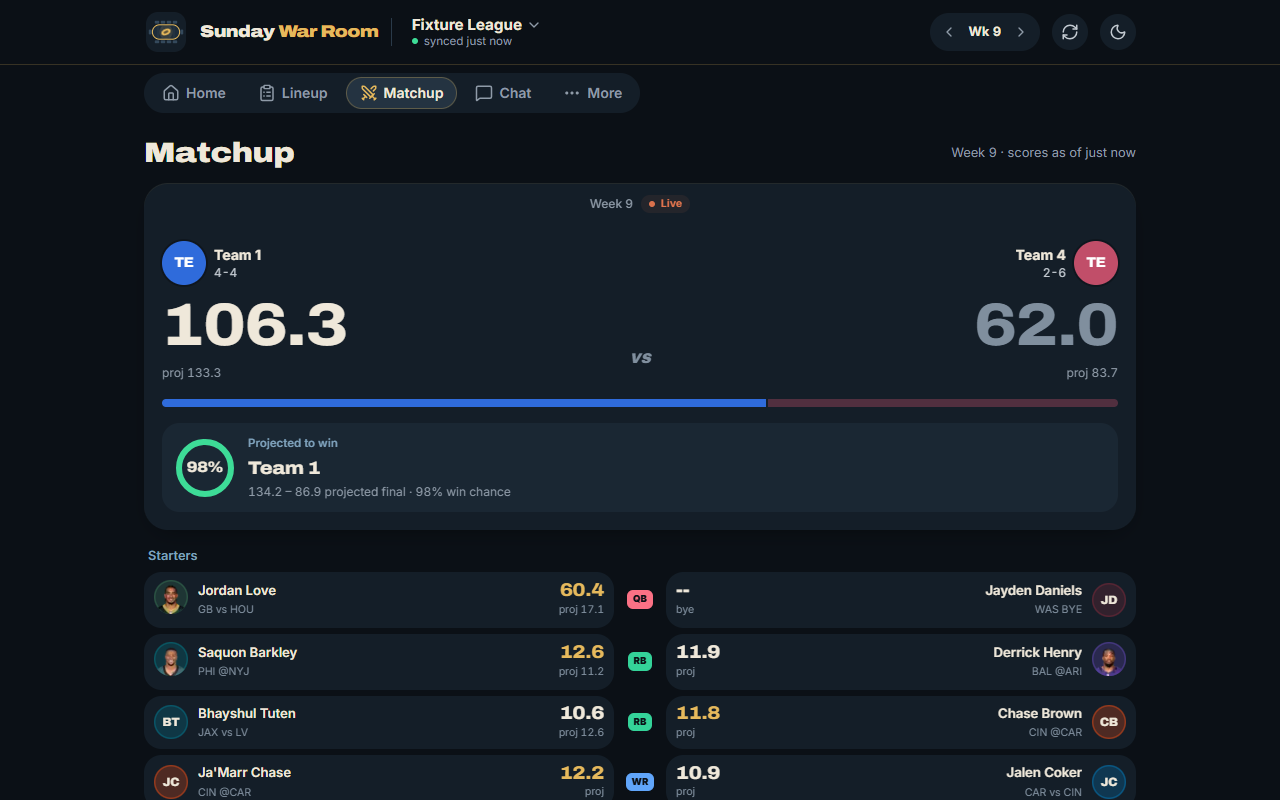
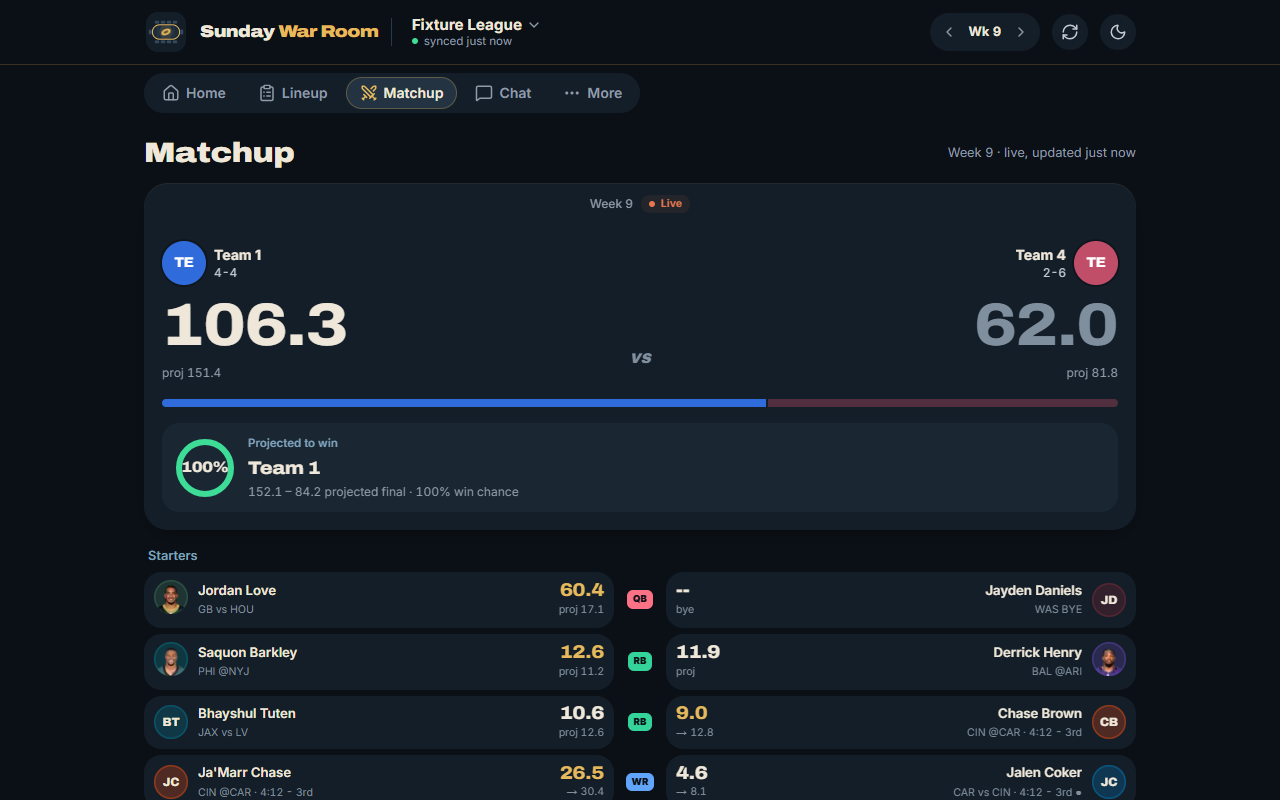
P2 step 8: docs, checklist, screenshots; fix the worker-jobs test for the live cron
P2 is built: waivers, trade analyzer, live game day. 260 backend (99% coverage),
73 web and 81 end-to-end tests.

diff --git a/web/scripts/screenshots.ts b/web/scripts/screenshots.ts
@@ -22,10 +22,12 @@ const screens = [
   ["matchup", "/matchup"],
   ["lineup", "/lineup"],
   ["accuracy", "/accuracy"],
+  ["waivers", "/waivers"],
+  ["trades", "/trades"],
 ] as const;
 
 for (const [kind, device] of [
-  ["phone", devices["iPhone 14"]],
+  ["phone", { ...devices["iPhone 14"], deviceScaleFactor: 2 }],
   ["desktop", { ...devices["Desktop Chrome"], viewport: { width: 1280, height: 800 } }],
 ] as const) {
   const context = await browser.newContext({ ...device, baseURL, colorScheme: "dark" });

diff --git a/api/tests/integration/test_gap_fillers_integration.py b/api/tests/integration/test_gap_fillers_integration.py
@@ -59,12 +59,14 @@ def test_worker_registers_every_job_and_its_schedule() -> None:
 
     assert {f.__name__ for f in WorkerSettings.functions} == {  # type: ignore[attr-defined]
         "connect_sleeper",
+        "live_update_job",
         "sync_league_job",
         "sync_players_job",
         "ingest_nflverse_job",
     }
     assert {c.name for c in WorkerSettings.cron_jobs} == {
         "cron:sync_all_leagues",
+        "cron:live_update_job",  # P2: every minute, quiet outside game windows
         "cron:sync_players_job",
         "cron:ingest_nflverse_job",
     }

diff --git a/docs/Build-Plan/P2-Build-Plan.md b/docs/Build-Plan/P2-Build-Plan.md
@@ -17,16 +17,16 @@ Each step ends runnable, tested, committed and green in CI.
 5. **Trade analyzer** (done 2026-11-10): `POST /leagues/{id}/trades/evaluate` (any two teams); `GET /leagues/{id}/trades/suggestions?max_loss=`; Trades screen with team pickers, before/after lineups and the "acceptable" slider.
 6. **ESPN scoreboard source** (done 2026-11-10; `app/sources/espn_scoreboard.py`, recorded real weeks 9-10 plus a derived live file): one module with a schema contract; team codes mapped to ours.
 7. **Live game day** (done 2026-11-10; every-minute worker tick that does nothing outside game windows; Matchup polls every 45 s while live; kickoff-time estimate when the scoreboard is down): a worker job polls Sleeper and the scoreboard during game windows; live win chance from the remaining share of each game; player status on Matchup and Home; screens re-fetch every 30–60 s only while games are live; points-only fallback when the scoreboard fails.
-8. **Tests and docs:** end-to-end stand-ins (Sleeper and a scoreboard replaying a recorded Sunday), specs for waivers, trades and live; OpenAPI and generated client; vault, Verification Gaps, backlog.
+8. **Tests and docs** (done 2026-11-10): specs for waivers, trades and live; OpenAPI and generated client; vault, Verification Gaps, backlog. Changed from the plan: the end-to-end world stores the scoreboard rows the live tick would write, instead of a stand-in server replaying a Sunday (the worker's cron is off in that stack); the tick itself is tested against a fake scoreboard in `test_live.py`.
 
 ## Verification checklist
-- [ ] Waivers rank free agents for a FAAB league and a priority league; status and bid range follow each league's settings.
-- [ ] The toggle switches between rest of season and this week; a suggested drop is shown.
-- [ ] A trade between any two teams shows both teams' lineups before and after; a 2-for-1 is only a win if the extra player starts.
-- [ ] Suggestions respect the "acceptable" limit.
-- [ ] During a simulated live Sunday, scores, player status and win chance change between polls; nothing polls when no game is live.
-- [ ] If the scoreboard breaks, win chance falls back to points only and says so.
-- [ ] Rest-of-season backtest numbers recorded in the [Backtest Report](Backtest-Report.md).
+- [x] Waivers rank free agents for a FAAB league and a priority league; status and bid range follow each league's settings. (`tests/integration/test_waivers.py`; on a real league: V-33, V-34)
+- [x] The toggle switches between rest of season and this week; a suggested drop is shown. (`e2e/waivers.spec.ts`, `test_full_roster_suggests_a_drop`)
+- [x] A trade between any two teams shows both teams' lineups before and after; a 2-for-1 is only a win if the extra player starts. (`test_two_for_one_only_counts_the_second_player_if_he_starts`, `e2e/trades.spec.ts`)
+- [x] Suggestions respect the "acceptable" limit. (`test_suggestions_help_me_and_respect_the_limit`)
+- [x] During a simulated live Sunday, scores, player status and win chance blend points so far with time left, and the screen re-polls while live; the worker does nothing outside game windows. (`test_live.py`, `e2e/live.spec.ts`; a real Sunday is V-35)
+- [x] If the scoreboard breaks, scores still update and time left is estimated from kickoff, and the screen says so. (`test_scoreboard_down_still_updates_points`, `test_without_the_scoreboard_time_left_comes_from_kickoff`)
+- [x] Rest-of-season backtest numbers recorded in the [Backtest Report](Backtest-Report.md).
 - [ ] pytest, Vitest and Playwright pass locally and in GitHub Actions.
 
 Related: [P1 Build Plan](P1-Build-Plan.md) · [P2–P4 Outline](P2-P4-Outline.md) · [Features by Phase](../Specs/Features-by-Phase.md)

diff --git a/README.md b/README.md
@@ -5,15 +5,18 @@ leagues and helps you make weekly decisions: start/sit, matchup outlook,
 waivers, trades, a live game-day dashboard, and an AI assistant that answers
 questions using your league's real data and Sunday War Room's own projection model.
 
-> **Status:** Phase 1 (Sleeper: sign-in, matchup, lineup optimizer, own projection model,
-> accuracy tracking) is built, runs locally with one command and passes CI on every push
-> (160 backend, 71 web and 62 end-to-end tests). Waivers, trades, live game day and the AI
-> assistant are next; model upgrades and then deployment come last ([ADR-043](docs/Decisions/ADR-043-Phases-Renumbered.md)).
+> **Status:** Phases 1 and 2 are built, run locally with one command and pass CI on every push
+> (260 backend tests at 99% coverage, 73 web and 81 end-to-end tests). P1: Sleeper sign-in,
+> matchup, lineup optimizer, own projection model, accuracy tracking. P2: waivers ranked by
+> value added to your lineup, a trade analyzer for any two teams, and live game day. The AI
+> assistant is next; model upgrades and then deployment come last ([ADR-043](docs/Decisions/ADR-043-Phases-Renumbered.md)).
 > All decisions and specs live in the [docs vault](docs/README.md).
 
-| Lineup | Matchup |
+| Lineup | Matchup (live) |
 |---|---|
-| ![Lineup: win chance, suggested swaps, top performers](docs/screenshots/lineup-desktop.png) | ![Matchup: projected final, win chance, starters](docs/screenshots/matchup-desktop.png) |
+| ![Lineup: win chance, suggested swaps, top performers](docs/screenshots/lineup-desktop.png) | ![Matchup during games: points so far, game clocks, live win chance](docs/screenshots/matchup-desktop.png) |
+| **Waivers** | **Trades** |
+| ![Waivers: free agents ranked by points added to my lineup, bid guide](docs/screenshots/waivers-desktop.png) | ![Trades: ideas for me with an acceptable-loss slider](docs/screenshots/trades-desktop.png) |
 
 *Screenshots from demo data (a recorded Sleeper league and an invented NFL week), not a real person's league.*
 

diff --git a/CLAUDE.md b/CLAUDE.md
@@ -54,6 +54,6 @@ matchup/lineup/accuracy endpoints, committed OpenAPI spec + generated TS client 
 `web/src/lib/api`, Next.js app with Better Auth sign-in, onboarding and the P1 screens);
 PWA manifest, icons, small service worker and install card); see `api/README.md` and `web/README.md`.
 Docker images for api (also the worker and the migration) and web, one `docker compose up --build`).
-Step 14 tests done: 160 backend tests (99% coverage), 71 web unit tests, 62 Playwright end-to-end tests (`web/e2e/README.md`). Step 15 (CI) done, green on GitHub (2026-11-09): `.github/workflows/ci.yml` + `docs/Build-Plan/CI.md`. P1 done except deploy. Phases renumbered (ADR-043): P5 improved model, P6 deploy + push. P2 decided (ADR-044..048) and planned in `docs/Build-Plan/P2-Build-Plan.md`; next: P2 step 1.
+Step 14 tests done: 160 backend tests (99% coverage), 71 web unit tests, 62 Playwright end-to-end tests (`web/e2e/README.md`). Step 15 (CI) done, green on GitHub (2026-11-09): `.github/workflows/ci.yml` + `docs/Build-Plan/CI.md`. P1 done except deploy. Phases renumbered (ADR-043): P5 improved model, P6 deploy + push. **P2 built (2026-11-10)**: waivers, trade analyzer, live game day (ADR-044..048, `docs/Build-Plan/P2-Build-Plan.md`); 260 backend / 73 web / 81 E2E tests. Next: P3 (AI assistant), which needs its own plan and owner decisions (Open Questions #9-11).
 Backend change workflow: edit the API, then `python -m app.scripts.export_openapi` and
 `npm run generate:api` (in `web/`), and commit `api/openapi.json` and the generated client together.

diff --git a/docs/Specs/Features-by-Phase.md b/docs/Specs/Features-by-Phase.md
@@ -19,7 +19,7 @@ Phasing: [ADR-009](../Decisions/ADR-009-Phasing.md). Each phase ships working an
 - **PWA:** installable; dark-first theme with a light toggle; bottom tabs with a More menu.
 - **Accuracy page (lightweight):** how Sunday War Room's frozen projections compared to actual results in past weeks.
 
-## P2 — Waivers, trades, live game day
+## P2 — Waivers, trades, live game day (built 2026-11-10)
 - **Waivers** ([ADR-047](../Decisions/ADR-047-Waivers-Value-Added.md)): free agents ranked by value added to *your* best lineup, rest of season or this week; suggested drop; waiver status under the league's rules; FAAB bid range.
 - **Trade analyzer** ([ADR-048](../Decisions/ADR-048-Trades-Lineup-Impact.md)): any two teams, judged by lineup impact; "best for me, still acceptable" suggestions with an adjustable limit.
 - **Live game day** ([ADR-044](../Decisions/ADR-044-Live-Data-Sources.md), [ADR-045](../Decisions/ADR-045-Live-Delivery-Polling.md)): scores, player game status, live projected finals and win chance, re-fetched every 30–60 s while games are live.

diff --git a/docs/README.md b/docs/README.md
@@ -8,7 +8,7 @@ aliases: [Home, 00 Home]
 
 The source of truth for every decision, spec and explanation behind Sunday War Room. No code lives here. Start with the Product Vision, then skim the Decisions.
 
-**Status (2026-11-09):** 48 decisions made; Phase 1 built and passing CI on GitHub (backend, worker, web app, PWA, Docker images, 160 + 71 + 62 tests); P2 planned ([P2 Build Plan](Build-Plan/P2-Build-Plan.md)); improved model is Phase 5, deployment Phase 6 ([ADR-043](Decisions/ADR-043-Phases-Renumbered.md)) ([ADR-026](Decisions/ADR-026-Execution-Order.md)).
+**Status (2026-11-10):** 48 decisions made; Phases 1 and 2 built and passing CI on GitHub (260 backend, 73 web, 81 end-to-end tests): P2 adds waivers, trades and live game day ([P2 Build Plan](Build-Plan/P2-Build-Plan.md)); P3 (AI assistant) is next; improved model is Phase 5, deployment Phase 6 ([ADR-043](Decisions/ADR-043-Phases-Renumbered.md)) ([ADR-026](Decisions/ADR-026-Execution-Order.md)).
 
 ## Start here
 - [Product Vision](Specs/Product-Vision.md): what Sunday War Room is, who it's for, its principles
